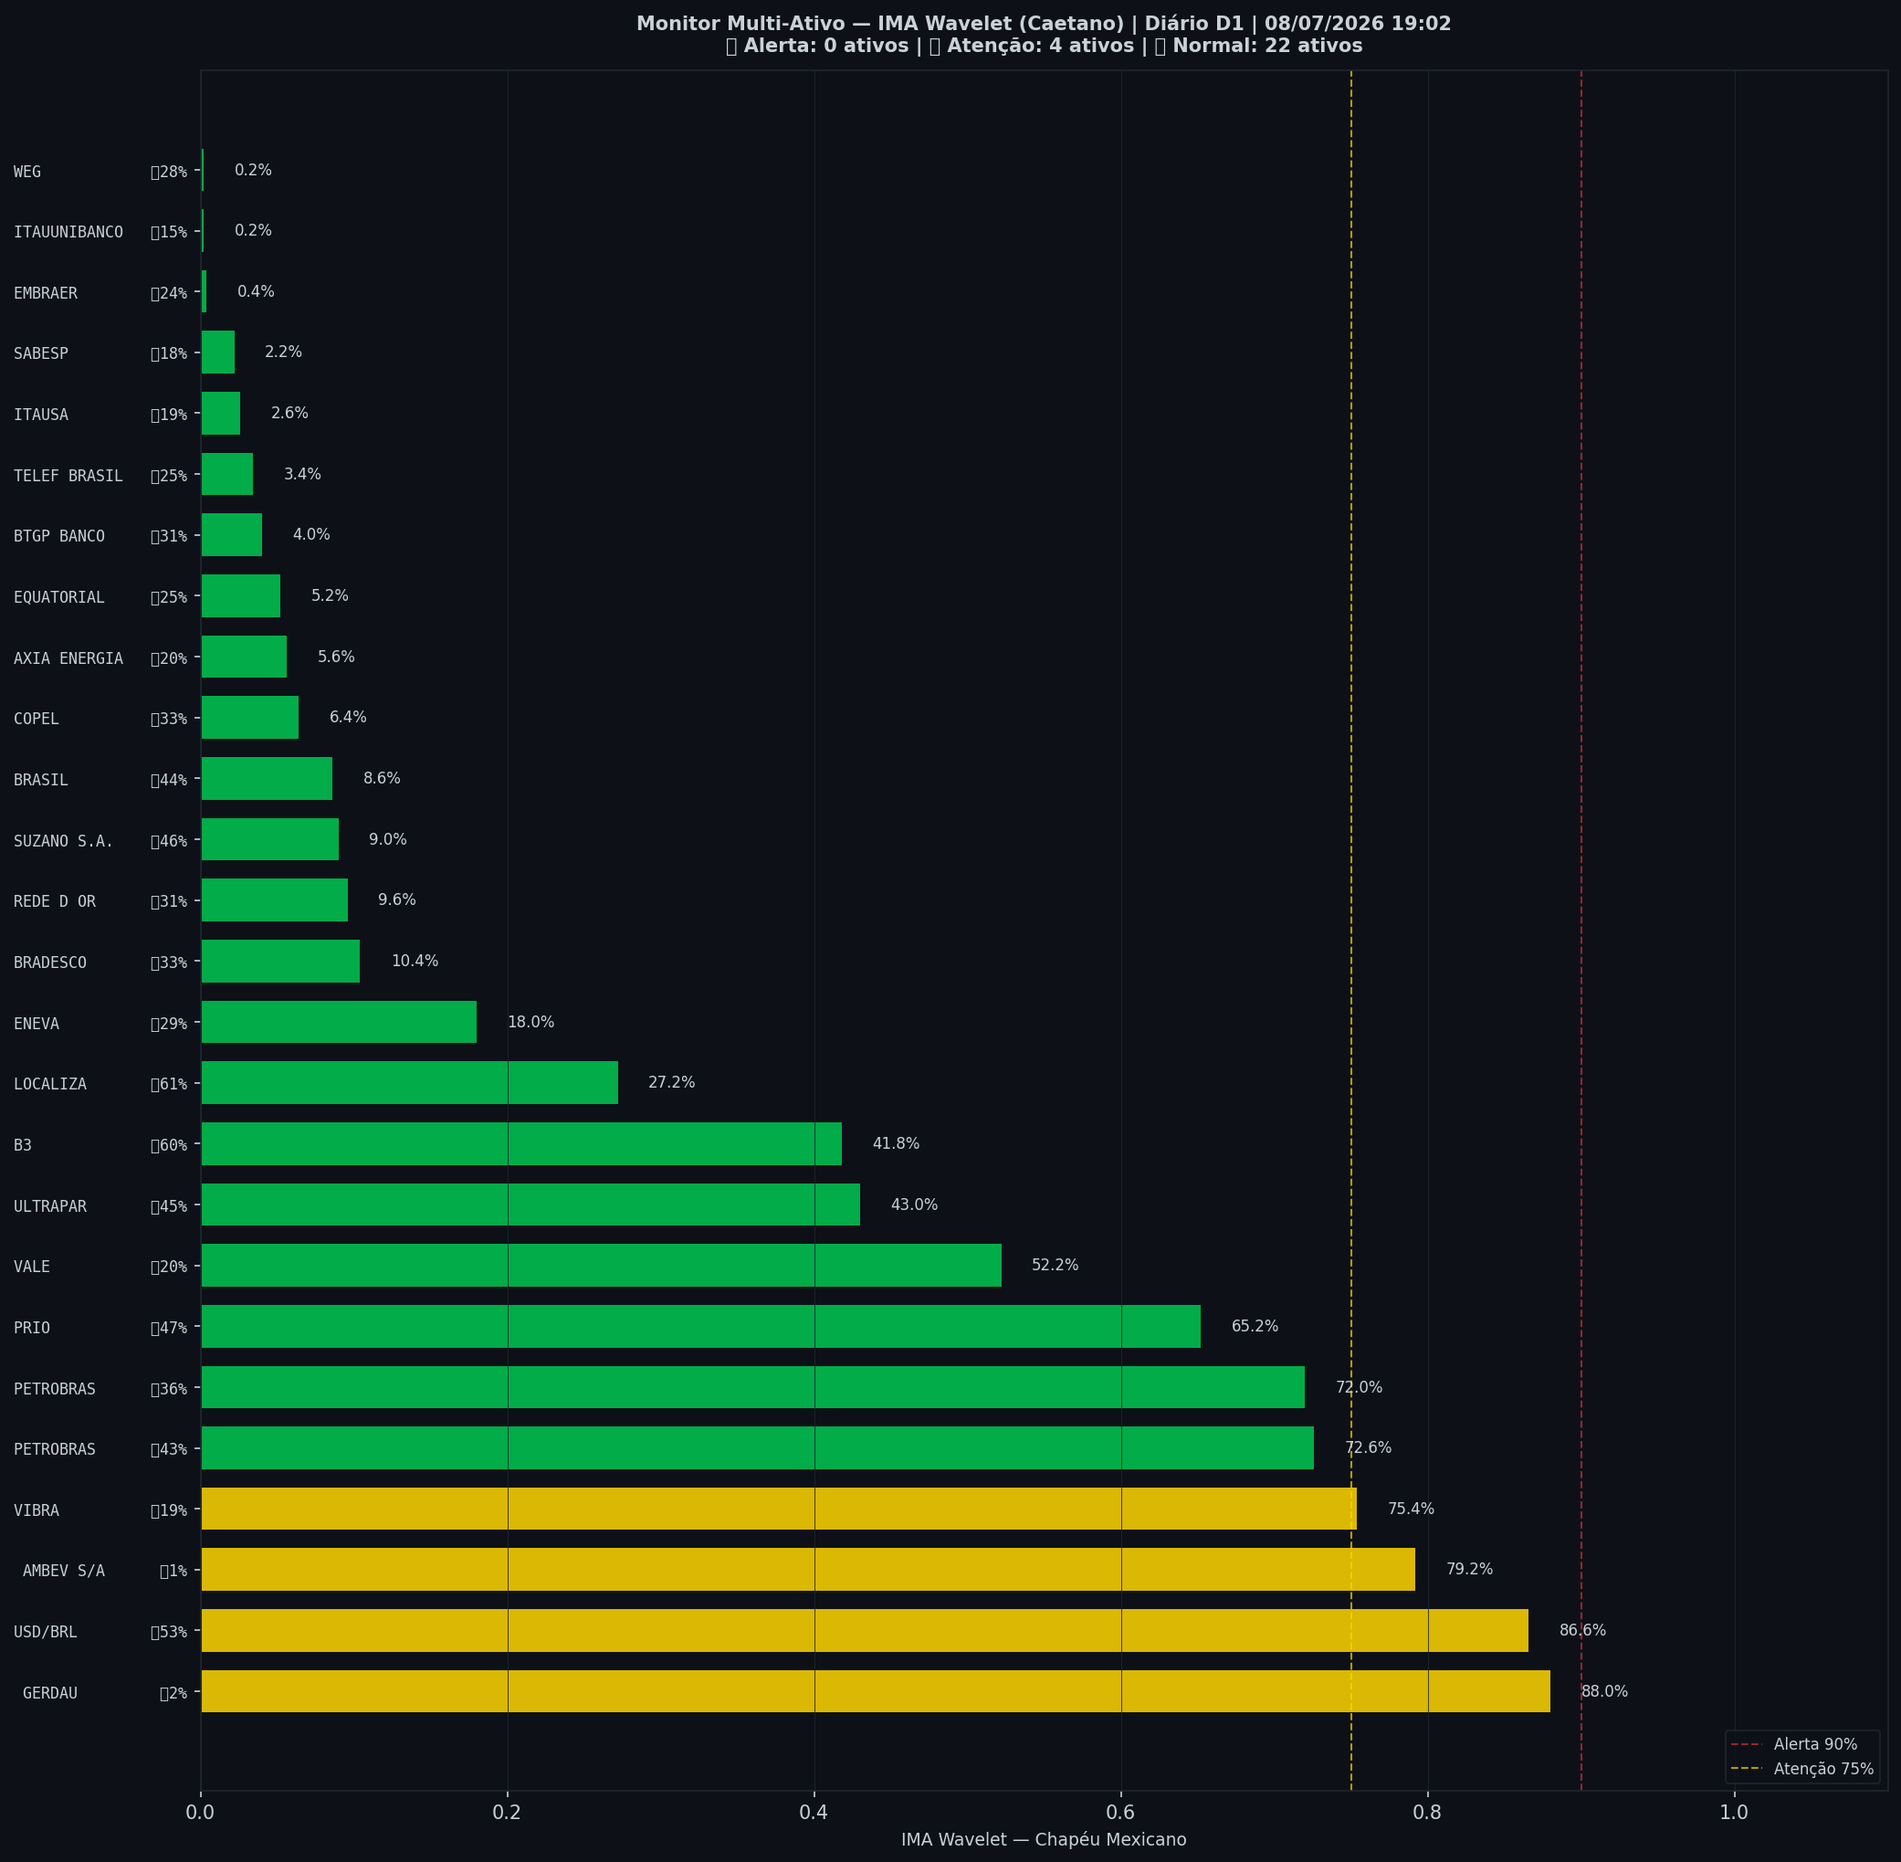
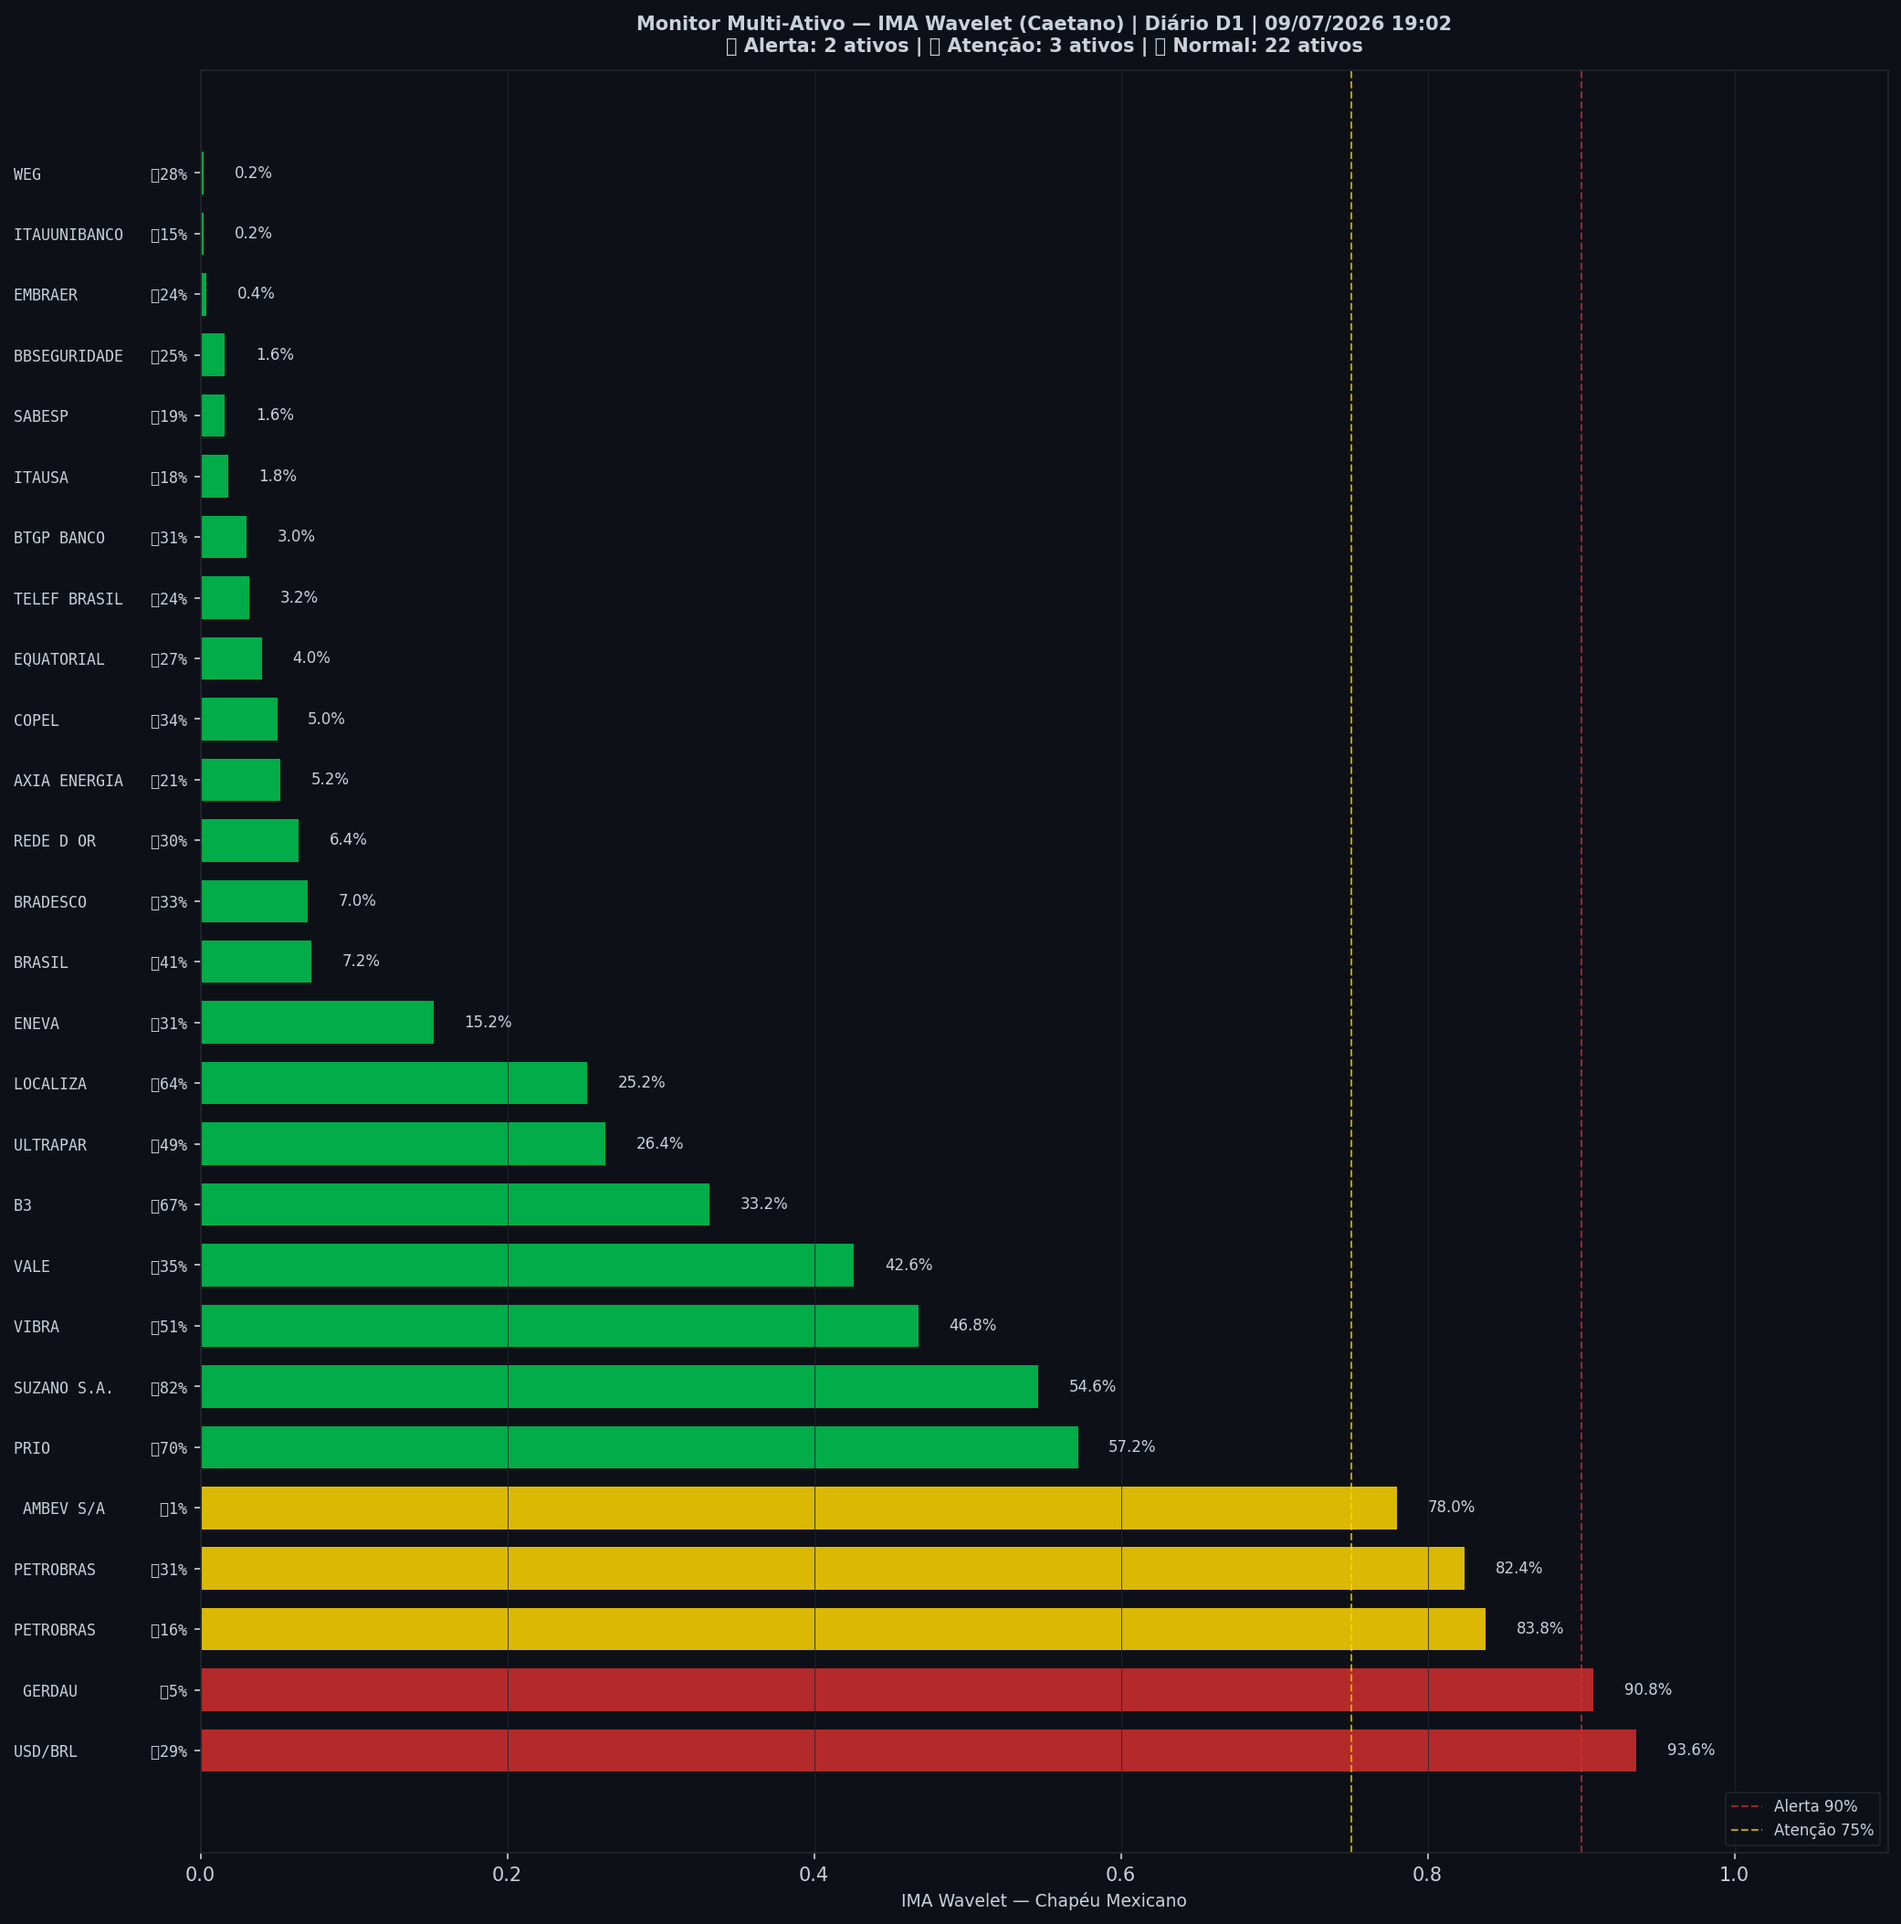
🤖 Auto: Sinal 09/07/2026 19:04

diff --git a/content/diario/2026-07-09.md b/content/diario/2026-07-09.md
@@ -1,0 +1,103 @@
+---
+title: "🟢 Diário 09/07/2026 — VERDE"
+date: 2026-07-09
+tags: [diario]
+---
+
+> [!success] 🟢 **VERDE** — Risco 2% · ▼ -3 p.p. vs leitura anterior
+> `░░░░░░░░░░░░░░░░░░░░`
+> Mercado sem sinais relevantes de estresse.
+
+
+| Indicador | Valor |
+|---|---|
+| 🔴 IMA Crash (percentil 2 anos) | **3%** |
+| 🔵 IMA Entrada (compra) | 34% |
+| 🫧 LPPL DS-Confidence | 0% |
+| 📊 Ibovespa | 172.742 pts |
+
+![Gráfico do sinal](../graficos/sinal_diario.png)
+
+## Últimos 30 pregões
+
+| Data | Zona | Risco | IMA | LPPL |
+|---|---|---|---|---|
+| 2026-07-09 | 🟢 VERDE | **2%** | 3% | 0% |
+| 2026-07-08 | 🟢 VERDE | **5%** | 7% | 0% |
+| 2026-07-07 | 🟢 VERDE | **6%** | 9% | 0% |
+| 2026-07-06 | 🟢 VERDE | **8%** | 11% | 0% |
+| 2026-07-03 | 🟢 VERDE | **10%** | 14% | 0% |
+| 2026-07-02 | 🟢 VERDE | **56%** | 80% | 0% |
+| 2026-07-01 | 🟢 VERDE | **57%** | 81% | 0% |
+| 2026-06-30 | 🟢 VERDE | **52%** | 74% | 0% |
+| 2026-06-29 | 🟢 VERDE | **46%** | 65% | 0% |
+| 2026-06-26 | 🟢 VERDE | **40%** | 58% | 0% |
+| 2026-06-25 | 🟢 VERDE | **34%** | 48% | 0% |
+| 2026-06-24 | 🟢 VERDE | **30%** | 43% | 0% |
+| 2026-06-23 | 🟢 VERDE | **24%** | 34% | 0% |
+| 2026-06-22 | 🟢 VERDE | **21%** | 31% | 0% |
+| 2026-06-19 | 🟢 VERDE | **19%** | 28% | 0% |
+| 2026-06-18 | 🟢 VERDE | **19%** | 27% | 0% |
+| 2026-06-17 | 🟢 VERDE | **20%** | 29% | 0% |
+| 2026-06-16 | 🟢 VERDE | **20%** | 28% | 0% |
+| 2026-06-15 | 🟢 VERDE | **21%** | 30% | 0% |
+| 2026-06-12 | 🟢 VERDE | **25%** | 36% | 0% |
+| 2026-06-11 | 🟢 VERDE | **31%** | 44% | 0% |
+| 2026-06-10 | 🟢 VERDE | **38%** | 54% | 0% |
+| 2026-06-09 | 🟢 VERDE | **44%** | 62% | 0% |
+| 2026-06-08 | 🟢 VERDE | **49%** | 70% | 0% |
+| 2026-06-05 | 🟢 VERDE | **45%** | 64% | 0% |
+| 2026-06-03 | 🟢 VERDE | **35%** | 50% | 0% |
+| 2026-06-02 | 🟢 VERDE | **21%** | 30% | 0% |
+| 2026-06-01 | 🟢 VERDE | **17%** | 25% | 0% |
+| 2026-05-29 | 🟢 VERDE | **14%** | 20% | 0% |
+| 2026-05-28 | 🟢 VERDE | **14%** | 20% | 0% |
+
+## Monitor Multi-Ativo
+
+**19% dos ativos em tensão** (2🔴 3🟡) — quanto mais ativos disparam juntos, mais confiável o sinal.
+
+| Zona | Ativo | Setor | IMA Crash | IMA Entrada |
+|---|---|---|---|---|
+| 🔴 | **USD/BRL** | Câmbio | 93.6% | 29.2% |
+| 🔴 | **GERDAU** | Siderurgia | 90.8% | 5.4% |
+| 🟡 | **PETROBRAS** | Petróleo | 83.8% | 15.8% |
+| 🟡 | **PETROBRAS** | Petróleo | 82.4% | 31.2% |
+| 🟡 | **AMBEV S/A** | Consumo | 78.0% | 1.2% |
+| 🟢 | **PRIO** | Petróleo | 57.2% | 69.8% |
+| 🟢 | **SUZANO S.A.** | Papel/Celulose | 54.6% | 82.0% |
+| 🟢 | **VIBRA** | Energia | 46.8% | 51.4% |
+| 🟢 | **VALE** | Mineração | 42.6% | 35.0% |
+| 🟢 | **B3** | Financeiro | 33.2% | 67.4% |
+| 🟢 | **ULTRAPAR** | Outros | 26.4% | 48.6% |
+| 🟢 | **LOCALIZA** | Aluguel | 25.2% | 64.0% |
+| 🟢 | **ENEVA** | Energia | 15.2% | 31.2% |
+| 🟢 | **BRASIL** | Financeiro | 7.2% | 41.4% |
+| 🟢 | **BRADESCO** | Financeiro | 7.0% | 33.0% |
+| 🟢 | **REDE D OR** | Saúde | 6.4% | 29.8% |
+| 🟢 | **AXIA ENERGIA** | Energia | 5.2% | 20.8% |
+| 🟢 | **COPEL** | Energia | 5.0% | 33.6% |
+| 🟢 | **EQUATORIAL** | Energia | 4.0% | 26.6% |
+| 🟢 | **TELEF BRASIL** | Outros | 3.2% | 24.4% |
+| 🟢 | **BTGP BANCO** | Financeiro | 3.0% | 31.2% |
+| 🟢 | **ITAUSA** | Financeiro | 1.8% | 18.4% |
+| 🟢 | **SABESP** | Saneamento | 1.6% | 18.6% |
+| 🟢 | **BBSEGURIDADE** | Financeiro | 1.6% | 24.6% |
+| 🟢 | **EMBRAER** | Outros | 0.4% | 23.6% |
+| 🟢 | **ITAUUNIBANCO** | Financeiro | 0.2% | 14.8% |
+| 🟢 | **WEG** | Industrial | 0.2% | 27.6% |
+
+![Monitor multi-ativo](../graficos/multi_diario.png)
+
+> [!info]- Como interpretar (clique para expandir)
+> - **IMA Crash**: percentil do índice de mudanças abruptas de Caetano nos últimos 2 anos. 80% = estresse espectral acima de 80% do histórico recente — alta frequência com baixa volatilidade, padrão que antecede viradas.
+> - **IMA Entrada**: mesmo método nas frequências baixas — mercado estável após queda, possível oportunidade de compra.
+> - **LPPL DS-Confidence**: fração de janelas (60–504 pregões) em que o modelo de bolha de Sornette produz um ajuste válido. 30% já é relevante; acima de 50% é forte evidência de estrutura de bolha.
+> - **Zonas com histerese**: o sinal só muda de zona ao cruzar o limiar de entrada, e só volta ao cruzar o de saída — evita flip-flop diário.
+
+
+---
+*Sinal de Crise B3 v4 · IMA Wavelet ([Caetano & Yoneyama, Physica-A 2007](https://doi.org/10.1016/j.physa.2007.03.054)) + LPPL DS-Confidence (Sornette, ETH-Zurich) · [Metodologia](metodologia) · [Histórico](historico)*
+
+> [!quote]- Aviso
+> Estudo acadêmico. Não constitui recomendação de investimento.

diff --git a/content/index.md b/content/index.md
@@ -8,21 +8,21 @@ tags: [home]
 
 Monitoramento diário e intraday do Ibovespa — **IMA Wavelet** (Prof. Marco Antonio Leonel Caetano, ITA/INSPER) + **LPPL DS-Confidence** (Prof. Didier Sornette, ETH-Zurich).
 
-*Última atualização: 09/07/2026 18:03 BRT · ^BVSP · Intraday 15min · v4*
+*Última atualização: 09/07/2026 19:04 BRT · ^BVSP · Diário D1 · v4*
 
-> [!success] 🟢 **VERDE** — Risco 43% · ▲ +34 p.p. vs leitura anterior
-> `█████████░░░░░░░░░░░`
+> [!success] 🟢 **VERDE** — Risco 2% · ▼ -3 p.p. vs leitura anterior
+> `░░░░░░░░░░░░░░░░░░░░`
 > Mercado sem sinais relevantes de estresse.
 
 
 | Indicador | Valor |
 |---|---|
-| 🔴 IMA Crash (percentil 2 anos) | **43%** |
-| 🔵 IMA Entrada (compra) | 87% |
+| 🔴 IMA Crash (percentil 2 anos) | **3%** |
+| 🔵 IMA Entrada (compra) | 34% |
 | 🫧 LPPL DS-Confidence | 0% |
-| 📊 Ibovespa | 172.828 pts |
+| 📊 Ibovespa | 172.742 pts |
 
-**Multi-ativo:** 19% em tensão (4🔴 1🟡 de 27 ativos)
+**Multi-ativo:** 19% em tensão (2🔴 3🟡 de 27 ativos)
 
 
 > [!tip]- Calibração v4 (backtest 15y)
@@ -32,8 +32,13 @@ Monitoramento diário e intraday do Ibovespa — **IMA Wavelet** (Prof. Marco An
 
 | Data | Zona | Risco | IMA | LPPL |
 |---|---|---|---|---|
-| [09 Jul 2026](diario/2026-07-09) | 🟢 VERDE | **43%** | 43% | 0% |
-| [08 Jul 2026](diario/2026-07-08) | 🟢 VERDE | **65%** | 65% | 0% |
+| [09 Jul 2026](diario/2026-07-09) | 🟢 VERDE | **2%** | 3% | 0% |
+| [08 Jul 2026](diario/2026-07-08) | 🟢 VERDE | **5%** | 7% | 0% |
+| [07 Jul 2026](diario/2026-07-07) | 🟢 VERDE | **6%** | 9% | 0% |
+| [06 Jul 2026](diario/2026-07-06) | 🟢 VERDE | **8%** | 11% | 0% |
+| [03 Jul 2026](diario/2026-07-03) | 🟢 VERDE | **10%** | 14% | 0% |
+| [02 Jul 2026](diario/2026-07-02) | 🟢 VERDE | **56%** | 80% | 0% |
+| [01 Jul 2026](diario/2026-07-01) | 🟢 VERDE | **57%** | 81% | 0% |
 
 ## Navegação
 

diff --git a/content/historico.md b/content/historico.md
@@ -7,6 +7,7 @@ tags: [historico]
 
 | Data | Modo | Zona | Risco | IMA | LPPL |
 |---|---|---|---|---|---|
+| 2026-07-09 | diario | 🟢 VERDE | 2% | 3% | 0% |
 | 2026-07-09 19:45 | intraday | 🟢 VERDE | 43% | 43% | 0% |
 | 2026-07-08 | diario | 🟢 VERDE | 5% | 7% | 0% |
 | 2026-07-08 19:45 | intraday | 🟢 VERDE | 65% | 65% | 0% |
